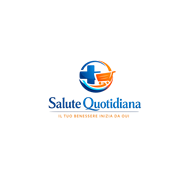
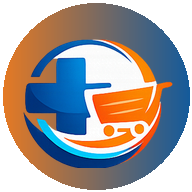
Icona app: cornice tonda con sfumatura arancio-blu, solo simbolo
icon-192/512 e apple-touch-icon ora usano il simbolo (croce+carrello)
ingrandito su sfondo circolare arancio->blu, invertito rispetto ai
colori del marchio per contrasto. Niente testo nell'icona: il nome
"Credito SQ" (manifest short_name) lo mostra il sistema operativo.

diff --git a/index.html b/index.html
@@ -4,12 +4,12 @@
     <meta charset="utf-8">
     <meta name="viewport" content="width=device-width, initial-scale=1">
     <title>Credito Salute SQ</title>
-    <link rel="manifest" href="manifest.json">
+    <link rel="manifest" href="manifest.json?v=2">
     <meta name="theme-color" content="#1d6ab5">
     <meta name="apple-mobile-web-app-capable" content="yes">
     <meta name="apple-mobile-web-app-status-bar-style" content="default">
     <meta name="apple-mobile-web-app-title" content="Salute SQ">
-    <link rel="apple-touch-icon" href="Logo.png">
+    <link rel="apple-touch-icon" href="apple-touch-icon.png?v=2">
     <link rel="stylesheet" href="styles.css?v=74">
   </head>
   <body>
